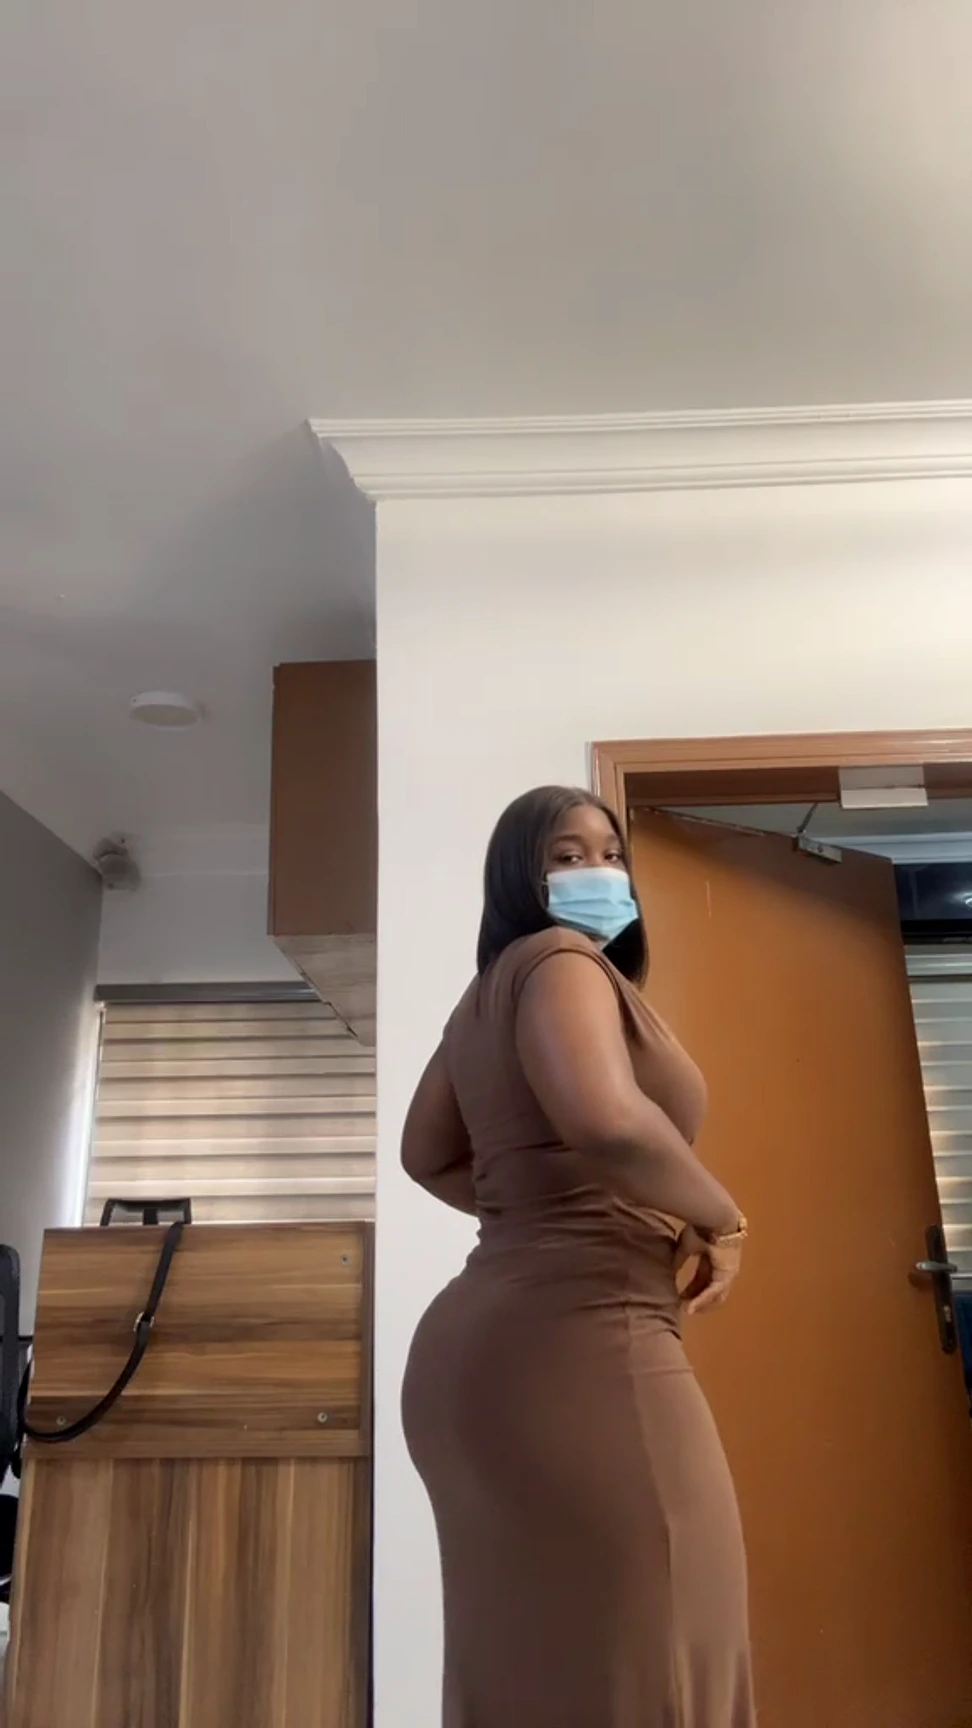
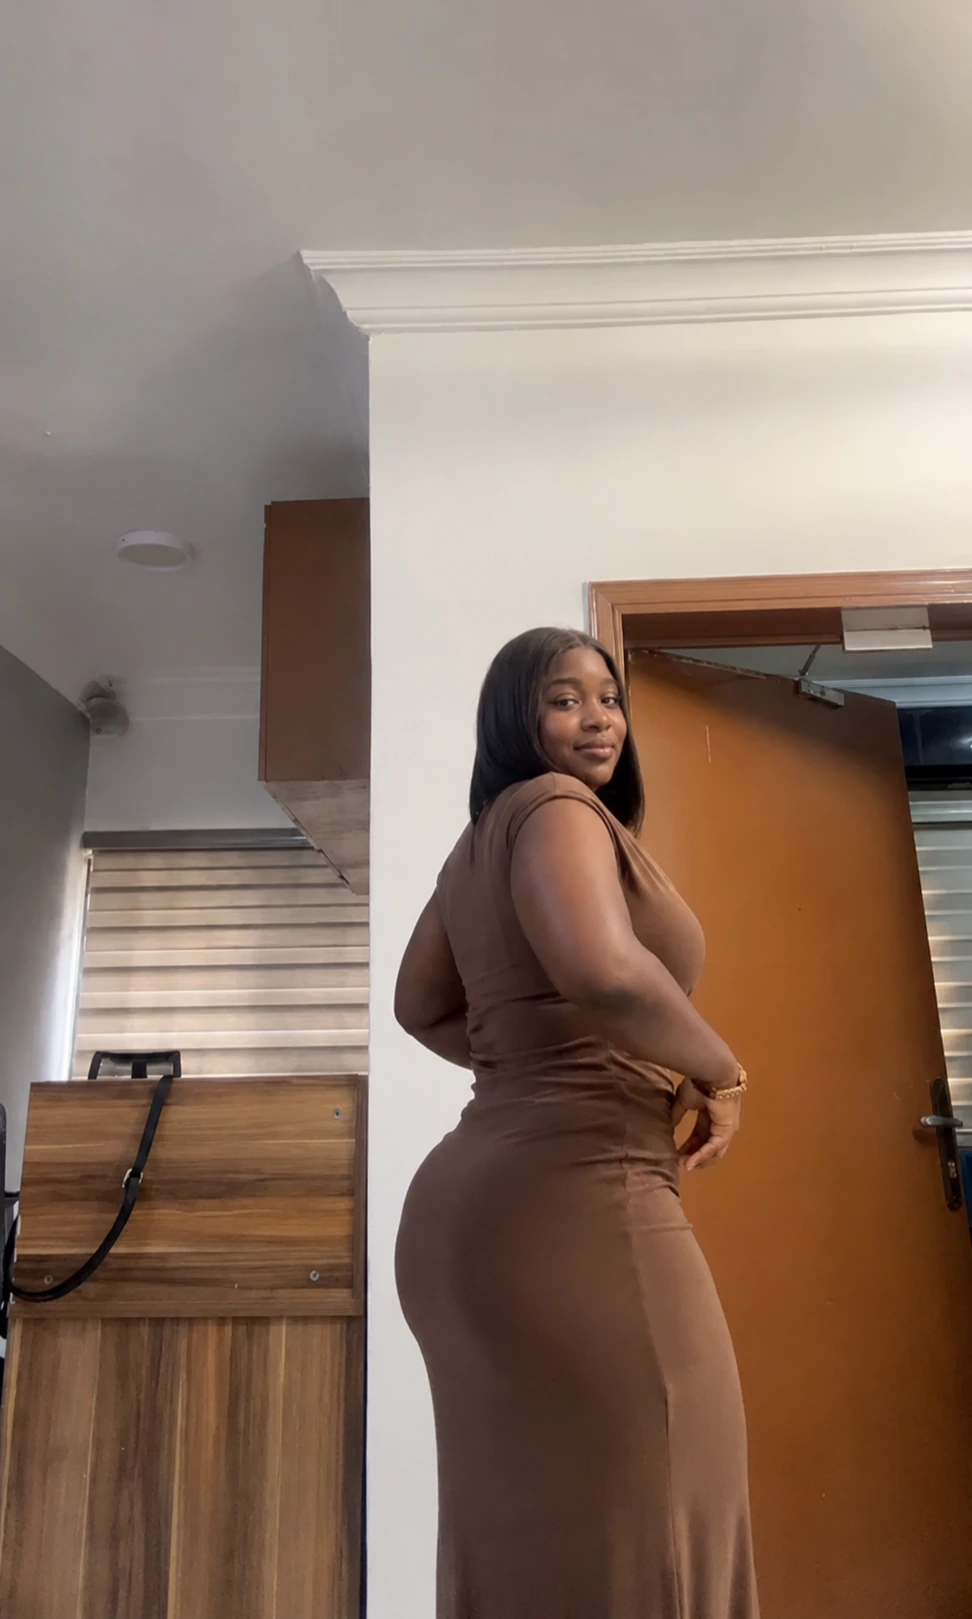
Publish corrected JUW-015 profile

diff --git a/tests/studio-juw015-media.test.ts b/tests/studio-juw015-media.test.ts
@@ -17,7 +17,7 @@ const approvedMedia = [
[6 lines of base64/hex data omitted]
 ] as const;
 

diff --git a/tests/shop-coral-model-views.test.ts b/tests/shop-coral-model-views.test.ts
@@ -176,9 +176,9 @@ const approvedProducts: readonly ApprovedProductMedia[] = [
       {
         slot: "MODEL_LEFT_PROFILE",
         src: "/shop/products/cocoa-cowl-gathered-midi-dress/07-model-left-profile.webp",
[2 lines of base64/hex data omitted]
         width: 972,
-        height: 1728,
+        height: 1619,
       },
       {
         slot: "MODEL_REAR_THREE_QUARTER",

diff --git a/tests/shop-db-release.test.ts b/tests/shop-db-release.test.ts
@@ -24,7 +24,7 @@ import {
 } from "../scripts/shop-db/release-core.mjs";
 
 const repositoryRoot = join(dirname(fileURLToPath(import.meta.url)), "..");
[2 lines of base64/hex data omitted]
 const legacySkuRenames = Object.fromEntries(
   Array.from({ length: 12 }, (_, index) => [
     `DYN-${String(index + 81).padStart(3, "0")}`,

diff --git a/docs/data/SHOP_DATABASE.md b/docs/data/SHOP_DATABASE.md
@@ -23,7 +23,7 @@ A preview command must use `SHOP_DB_TARGET=preview` and the dedicated preview br
 | Verify ledger, catalogue presentation, and inventory-row presence | `npm run db:verify:shop` | No |
 | Apply a new revision's descriptive catalogue changes | `npm run db:sync:catalog` | Yes |
 
[2 lines of base64/hex data omitted]
 
 ## Revision and recovery policy
 
